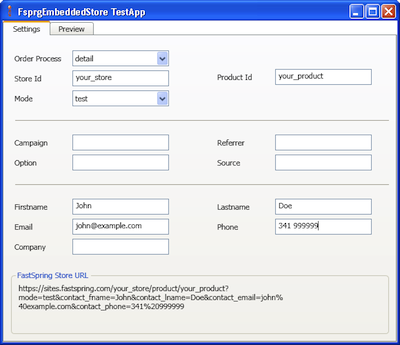
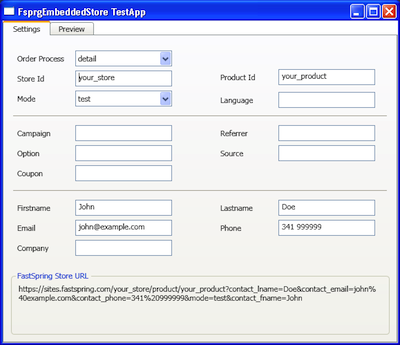
Added coupon parameter and commented store parameters.

diff --git a/TestApp/MainWindow.xaml b/TestApp/MainWindow.xaml
@@ -6,38 +6,40 @@
         <TabControl Name="tabControl" SelectionChanged="tabControl_SelectionChanged">
             <TabItem Header="Settings" Name="settings">
                 <Grid>
-                    <Label Content="Order Process" Height="23" HorizontalAlignment="Left" Margin="7,18,0,0" Name="orderProcessTypeLabel" VerticalAlignment="Top" Width="83" />
-                    <ComboBox Height="23" HorizontalAlignment="Left" Margin="96,18,0,0" Name="orderProcessTypeField" VerticalAlignment="Top" Width="140" SelectedItem="{Binding Path=Parameters.OrderProcessType}" />
-                    <Label Content="Store Id" Height="23" HorizontalAlignment="Left" Margin="7,47,0,0" Name="storeIdLabel" VerticalAlignment="Top" Width="83" />
-                    <TextBox Height="23" Margin="96,47,0,0" Name="storeIdField" VerticalAlignment="Top" Text="{Binding Path=Parameters.StoreId}" HorizontalAlignment="Left" Width="140" />
-                    <Label Content="Product Id" Height="23" Margin="301,45,0,0" Name="productIdLabel" VerticalAlignment="Top" HorizontalAlignment="Left" Width="83" />
-                    <TextBox Height="23" Margin="390,45,0,0" Name="productIdField" VerticalAlignment="Top" Text="{Binding Path=Parameters.ProductId}" HorizontalAlignment="Left" Width="140" />
-                    <Label Content="Mode" Height="23" HorizontalAlignment="Left" Margin="7,76,0,0" Name="modelLabel" VerticalAlignment="Top" Width="83" />
-                    <ComboBox Height="23" HorizontalAlignment="Left" Margin="96,76,0,0" Name="modelField" VerticalAlignment="Top" Width="140" SelectedItem="{Binding Path=Parameters.Mode}" />
-                    <Label Content="Language" Height="23" HorizontalAlignment="Left" Margin="301,78,0,0" Name="languageLabel" VerticalAlignment="Top" Width="83" />
-                    <TextBox Height="23" HorizontalAlignment="Left" Margin="390,78,0,0" Name="languageField" Text="{Binding Path=Parameters.Language}" VerticalAlignment="Top" Width="140" />
+                    <Label Content="Order Process" Height="23" HorizontalAlignment="Left" Margin="11,18,0,0" Name="orderProcessTypeLabel" VerticalAlignment="Top" Width="83" />
+                    <ComboBox Height="23" HorizontalAlignment="Left" Margin="100,18,0,0" Name="orderProcessTypeField" VerticalAlignment="Top" Width="140" SelectedItem="{Binding Path=Parameters.OrderProcessType}" />
+                    <Label Content="Store Id" Height="23" HorizontalAlignment="Left" Margin="11,47,0,0" Name="storeIdLabel" VerticalAlignment="Top" Width="83" />
+                    <TextBox Height="23" Margin="100,47,0,0" Name="storeIdField" VerticalAlignment="Top" Text="{Binding Path=Parameters.StoreId}" HorizontalAlignment="Left" Width="140" />
+                    <Label Content="Product Id" Height="23" Margin="305,45,0,0" Name="productIdLabel" VerticalAlignment="Top" HorizontalAlignment="Left" Width="83" />
+                    <TextBox Height="23" Margin="394,45,0,0" Name="productIdField" VerticalAlignment="Top" Text="{Binding Path=Parameters.ProductId}" HorizontalAlignment="Left" Width="140" />
+                    <Label Content="Mode" Height="23" HorizontalAlignment="Left" Margin="11,76,0,0" Name="modelLabel" VerticalAlignment="Top" Width="83" />
+                    <ComboBox Height="23" HorizontalAlignment="Left" Margin="100,76,0,0" Name="modelField" VerticalAlignment="Top" Width="140" SelectedItem="{Binding Path=Parameters.Mode}" />
+                    <Label Content="Language" Height="23" HorizontalAlignment="Left" Margin="305,78,0,0" Name="languageLabel" VerticalAlignment="Top" Width="83" />
+                    <TextBox Height="23" HorizontalAlignment="Left" Margin="394,78,0,0" Name="languageField" Text="{Binding Path=Parameters.Language}" VerticalAlignment="Top" Width="140" />
 
-                    <Separator Height="9" Margin="13,115,6,0" Name="separator1" VerticalAlignment="Top" HorizontalAlignment="Stretch" />
-                    <Label Content="Campaign" Height="23" HorizontalAlignment="Left" Margin="7,140,0,0" Name="campaignLabel" VerticalAlignment="Top" Width="83" />
-                    <TextBox Height="23" Margin="96,140,0,0" Name="campaignField" VerticalAlignment="Top" Text="{Binding Path=Parameters.Campaign}" HorizontalAlignment="Left" Width="140" />
-                    <Label Content="Referrer" Height="23" Margin="301,140,0,0" Name="referrerLabel" VerticalAlignment="Top" HorizontalAlignment="Left" Width="83" />
-                    <TextBox Height="23" Margin="390,140,0,0" Name="referrerField" VerticalAlignment="Top" Text="{Binding Path=Parameters.Referrer}" HorizontalAlignment="Left" Width="140" />
-                    <Label Content="Option" Height="23" HorizontalAlignment="Left" Margin="7,169,0,0" Name="optionLabel" VerticalAlignment="Top" Width="83" />
-                    <TextBox Height="23" Margin="96,169,0,0" Name="optionField" VerticalAlignment="Top" Text="{Binding Path=Parameters.Option}" HorizontalAlignment="Left" Width="140" />
-                    <Label Content="Source" Height="23" Margin="301,169,0,0" Name="sourceLabel" VerticalAlignment="Top" HorizontalAlignment="Left" Width="83" />
-                    <TextBox Height="23" Margin="390,169,0,0" Name="sourceField" VerticalAlignment="Top" Text="{Binding Path=Parameters.Source}" HorizontalAlignment="Left" Width="140" />
+                    <Separator Height="9" Margin="10,108,10,0" Name="separator1" VerticalAlignment="Top" HorizontalAlignment="Stretch" />
+                    <Label Content="Campaign" Height="23" HorizontalAlignment="Left" Margin="11,126,0,0" Name="campaignLabel" VerticalAlignment="Top" Width="83" />
+                    <TextBox Height="23" Margin="100,126,0,0" Name="campaignField" VerticalAlignment="Top" Text="{Binding Path=Parameters.Campaign}" HorizontalAlignment="Left" Width="140" />
+                    <Label Content="Referrer" Height="23" Margin="305,126,0,0" Name="referrerLabel" VerticalAlignment="Top" HorizontalAlignment="Left" Width="83" />
+                    <TextBox Height="23" Margin="394,126,0,0" Name="referrerField" VerticalAlignment="Top" Text="{Binding Path=Parameters.Referrer}" HorizontalAlignment="Left" Width="140" />
+                    <Label Content="Option" Height="23" HorizontalAlignment="Left" Margin="11,155,0,0" Name="optionLabel" VerticalAlignment="Top" Width="83" />
+                    <TextBox Height="23" Margin="100,155,0,0" Name="optionField" VerticalAlignment="Top" Text="{Binding Path=Parameters.Option}" HorizontalAlignment="Left" Width="140" />
+                    <Label Content="Source" Height="23" Margin="305,155,0,0" Name="sourceLabel" VerticalAlignment="Top" HorizontalAlignment="Left" Width="83" />
+                    <TextBox Height="23" Margin="394,155,0,0" Name="sourceField" VerticalAlignment="Top" Text="{Binding Path=Parameters.Source}" HorizontalAlignment="Left" Width="140" />
+                    <Label Content="Coupon" Height="23" HorizontalAlignment="Left" Margin="11,184,0,0" Name="couponLabel" VerticalAlignment="Top" Width="83" />
+                    <TextBox Height="23" Margin="100,184,0,0" Name="couponField" VerticalAlignment="Top" Text="{Binding Path=Parameters.Coupon}" HorizontalAlignment="Left" Width="140" />
 
-                    <Separator Height="9" Margin="13,208,6,0" Name="separator2" VerticalAlignment="Top" HorizontalAlignment="Stretch" />
-                    <Label Content="Firstname" Height="23" HorizontalAlignment="Left" Margin="7,233,0,0" Name="contactFnameLabel" VerticalAlignment="Top" Width="83" />
-                    <TextBox Height="23" Margin="96,233,0,0" Name="contactFnameField" VerticalAlignment="Top" Text="{Binding Path=Parameters.ContactFname}" HorizontalAlignment="Left" Width="140" />
-                    <Label Content="Lastname" Height="23" Margin="301,233,0,0" Name="contactLnameLabel" VerticalAlignment="Top" HorizontalAlignment="Left" Width="83" />
-                    <TextBox Height="23" Margin="390,233,0,0" Name="contactLnameField" VerticalAlignment="Top" Text="{Binding Path=Parameters.ContactLname}" HorizontalAlignment="Left" Width="140" />
-                    <Label Content="Email" Height="23" HorizontalAlignment="Left" Margin="7,262,0,0" Name="contactEmailLabel" VerticalAlignment="Top" Width="83" />
-                    <TextBox Height="23" Margin="96,262,0,0" Name="contactEmailField" VerticalAlignment="Top" Text="{Binding Path=Parameters.ContactEmail}" HorizontalAlignment="Left" Width="140" />
-                    <Label Content="Phone" Height="23" Margin="301,262,0,0" Name="contactPhoneLabel" VerticalAlignment="Top" HorizontalAlignment="Left" Width="83" />
-                    <TextBox Height="23" Margin="390,262,0,0" Name="contactPhoneField" VerticalAlignment="Top" Text="{Binding Path=Parameters.ContactPhone}" HorizontalAlignment="Left" Width="140" />
-                    <Label Content="Company" Height="23" HorizontalAlignment="Left" Margin="7,291,0,0" Name="contactCompanyLabel" VerticalAlignment="Top" Width="83" />
-                    <TextBox Height="23" Margin="96,291,0,0" Name="contactCompanyField" VerticalAlignment="Top" Text="{Binding Path=Parameters.ContactCompany}" HorizontalAlignment="Left" Width="140" />
+                    <Separator Height="9" Margin="10,216,10,0" Name="separator2" VerticalAlignment="Top" HorizontalAlignment="Stretch" />
+                    <Label Content="Firstname" Height="23" HorizontalAlignment="Left" Margin="11,234,0,0" Name="contactFnameLabel" VerticalAlignment="Top" Width="83" />
+                    <TextBox Height="23" Margin="100,234,0,0" Name="contactFnameField" VerticalAlignment="Top" Text="{Binding Path=Parameters.ContactFname}" HorizontalAlignment="Left" Width="140" />
+                    <Label Content="Lastname" Height="23" Margin="305,234,0,0" Name="contactLnameLabel" VerticalAlignment="Top" HorizontalAlignment="Left" Width="83" />
+                    <TextBox Height="23" Margin="394,234,0,0" Name="contactLnameField" VerticalAlignment="Top" Text="{Binding Path=Parameters.ContactLname}" HorizontalAlignment="Left" Width="140" />
+                    <Label Content="Email" Height="23" HorizontalAlignment="Left" Margin="11,263,0,0" Name="contactEmailLabel" VerticalAlignment="Top" Width="83" />
+                    <TextBox Height="23" Margin="100,263,0,0" Name="contactEmailField" VerticalAlignment="Top" Text="{Binding Path=Parameters.ContactEmail}" HorizontalAlignment="Left" Width="140" />
+                    <Label Content="Phone" Height="23" Margin="305,263,0,0" Name="contactPhoneLabel" VerticalAlignment="Top" HorizontalAlignment="Left" Width="83" />
+                    <TextBox Height="23" Margin="394,263,0,0" Name="contactPhoneField" VerticalAlignment="Top" Text="{Binding Path=Parameters.ContactPhone}" HorizontalAlignment="Left" Width="140" />
+                    <Label Content="Company" Height="23" HorizontalAlignment="Left" Margin="11,292,0,0" Name="contactCompanyLabel" VerticalAlignment="Top" Width="83" />
+                    <TextBox Height="23" Margin="100,292,0,0" Name="contactCompanyField" VerticalAlignment="Top" Text="{Binding Path=Parameters.ContactCompany}" HorizontalAlignment="Left" Width="140" />
 
                     <GroupBox Header="FastSpring Store URL" Margin="7,337,6,6" Name="storeUrlBox" VerticalAlignment="Stretch" HorizontalAlignment="Stretch">
                         <TextBlock Name="storeUrlField" Margin="5,5,5,5" Text="{Binding Path=Parameters.ToURL}" VerticalAlignment="Stretch" HorizontalAlignment="Stretch" TextWrapping="Wrap" TextTrimming="CharacterEllipsis" />

diff --git a/FsprgEmbeddedStore/StoreParameters.cs b/FsprgEmbeddedStore/StoreParameters.cs
@@ -16,6 +16,7 @@ namespace FsprgEmbeddedStore
         private const string OPTION = @"option";
         private const string REFERRER = @"referrer";
         private const string SOURCE = @"source";
+        private const string COUPON = @"coupon";
         private const string CONTACT_FNAME = @"contact_fname";
         private const string CONTACT_LNAME = @"contact_lname";
         private const string CONTACT_EMAIL = @"contact_email";
@@ -28,6 +29,10 @@ namespace FsprgEmbeddedStore
             get { return _raw; }
         }
 
+        // <summary>
+        // Pass a language code via the URL to bypass automatic language detection.
+        // Example: de
+        // </summary>
         public string Language {
             get { return GetValue(LANGUAGE); }
             set { SetValue(LANGUAGE, value); }
@@ -41,6 +46,8 @@ namespace FsprgEmbeddedStore
         }
         /// <summary>
         /// Required property.
+        /// Store path name and product path name.
+        /// These are found in a full product URL such as sites.fastspring.com/STOREPATH/product/PRODUCTPATH
         /// </summary>
         public string StoreId {
             get { return GetValue(STORE_ID); }
@@ -48,6 +55,8 @@ namespace FsprgEmbeddedStore
         }
         /// <summary>
         /// Required property.
+        /// Store path name and product path name.
+        /// These are found in a full product URL such as sites.fastspring.com/STOREPATH/product/PRODUCTPATH
         /// </summary>
         public string ProductId {
             get { return GetValue(PRODUCT_ID); }
@@ -60,21 +69,47 @@ namespace FsprgEmbeddedStore
             get { return Mode.Parse(GetValue(MODE)); }
             set { SetValue(MODE, value.ToString()); }
         }
+        /// <summary>
+        /// Used for "External Tracking". Go to "Link Sources" inside SpringBoard.
+        /// Example: november_sale_post
+        /// </summary>
         public string Campaign {
             get { return GetValue(CAMPAIGN); }
             set { SetValue(CAMPAIGN, value); }
         }
+        /// <summary>
+        /// Used for advanced and atypical store configuration options.
+        /// </summary>
         public string Option {
             get { return GetValue(OPTION); }
             set { SetValue(OPTION, value); }
         }
+        /// <summary>
+        /// Pass a custom referrer via the URL to override the automatically detected referring URL (HTTP_REFERER).
+        /// The value passed in this parameter is available in notifications and data exports. If a value is 
+        /// passed in this parameter then no data will be stored from the HTTP_REFERER header.
+        /// Example: xyz123
+        /// </summary>
         public string Referrer {
             get { return GetValue(REFERRER); }
             set { SetValue(REFERRER, value); }
         }
+        /// <summary>
+        /// Used for "External Tracking". Go to "Link Sources" inside SpringBoard.
+        /// Example: my_blog
+        /// </summary>
         public string Source {
             get { return GetValue(SOURCE); }
             set { SetValue(SOURCE, value); }
+        }
+        /// <summary>
+        /// Pass a coupon code via the URL to automatically apply a coupon to the order so that the customer 
+        /// does not need to enter it. A corresponding coupon code must be setup and associated with a promotion.
+        /// Example: DECSPECIAL987
+        /// </summary>
+        public string Coupon {
+            get { return GetValue(COUPON); }
+            set { SetValue(COUPON, value); }
         }
 
         public bool HasContactDefaults() {
